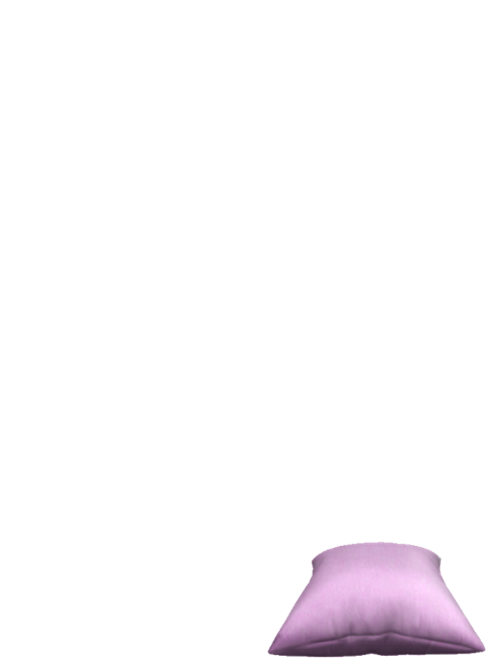
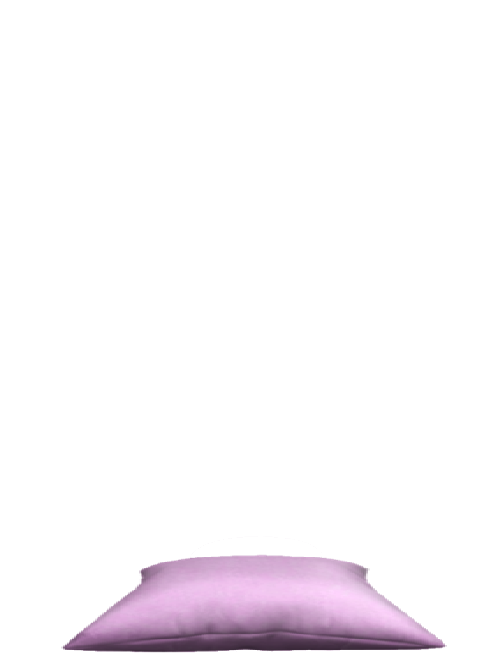
Change the cushion's behavior
This is a spring-cleaning pass over the cushion, updating its types to
be more in line with the "if the pose menu can do it, then let it do it".
As such, the third KneelingSpread type is deleted, and the 2nd which was
Kneel, is now named Sit.
On top of that, the PoseMapping is now set up appropriately,  which
leads to a removal of all the extra "upper body" pose layers.
And the AllFours pose has now gained a Sit visual, so you can actually
appear on the thing instead of having it next to you — what Hold now does.

Changed region(s): [[0.12, 0.806, 0.99, 0.9851]]

diff --git a/BondageClub/Assets/Female3DCG/Female3DCG.js b/BondageClub/Assets/Female3DCG/Female3DCG.js
@@ -62137,13 +62137,14 @@ var AssetFemale3DCG = [
 				IsRestraint: false,
 				PoseMapping: {
 					AllFours: "AllFours",
-					BackBoxTie: "BackBoxTie",
-					BackCuffs: "BackCuffs",
-					BackElbowTouch: "BackElbowTouch",
-					Hogtied: "Hogtied",
-					OverTheHead: "OverTheHead",
-					TapedHands: "TapedHands",
-					Yoked: "Yoked",
+					BackBoxTie: PoseType.DEFAULT,
+					BackCuffs: PoseType.DEFAULT,
+					BackElbowTouch: PoseType.DEFAULT,
+					Hogtied: PoseType.DEFAULT,
+					OverTheHead: PoseType.DEFAULT,
+					TapedHands: PoseType.DEFAULT,
+					Yoked: PoseType.DEFAULT,
+					KneelingSpread: "KneelingSpread",
 				},
 				Extended: true,
 				CreateLayerTypes: ["typed"],

diff --git a/BondageClub/Assets/Female3DCG/Female3DCGExtended.js b/BondageClub/Assets/Female3DCG/Female3DCGExtended.js
@@ -10542,19 +10542,11 @@ var AssetFemale3DCGExtended = {
 					},
 				},
 				{
-					Name: "Kneel",
+					Name: "Sit",
 					Property: {
 						OverrideHeight: { Height: -200, Priority: 21 },
 						OverridePriority: 1,
-						SetPose: ["Kneel"],
-					},
-				},
-				{
-					Name: "KneelingSpread",
-					Property: {
-						OverrideHeight: { Height: -200, Priority: 21 },
-						OverridePriority: 2,
-						SetPose: ["KneelingSpread"],
+						AllowActivePose: ["Kneel", "KneelingSpread", "AllFours"],
 					},
 				},
 			],
